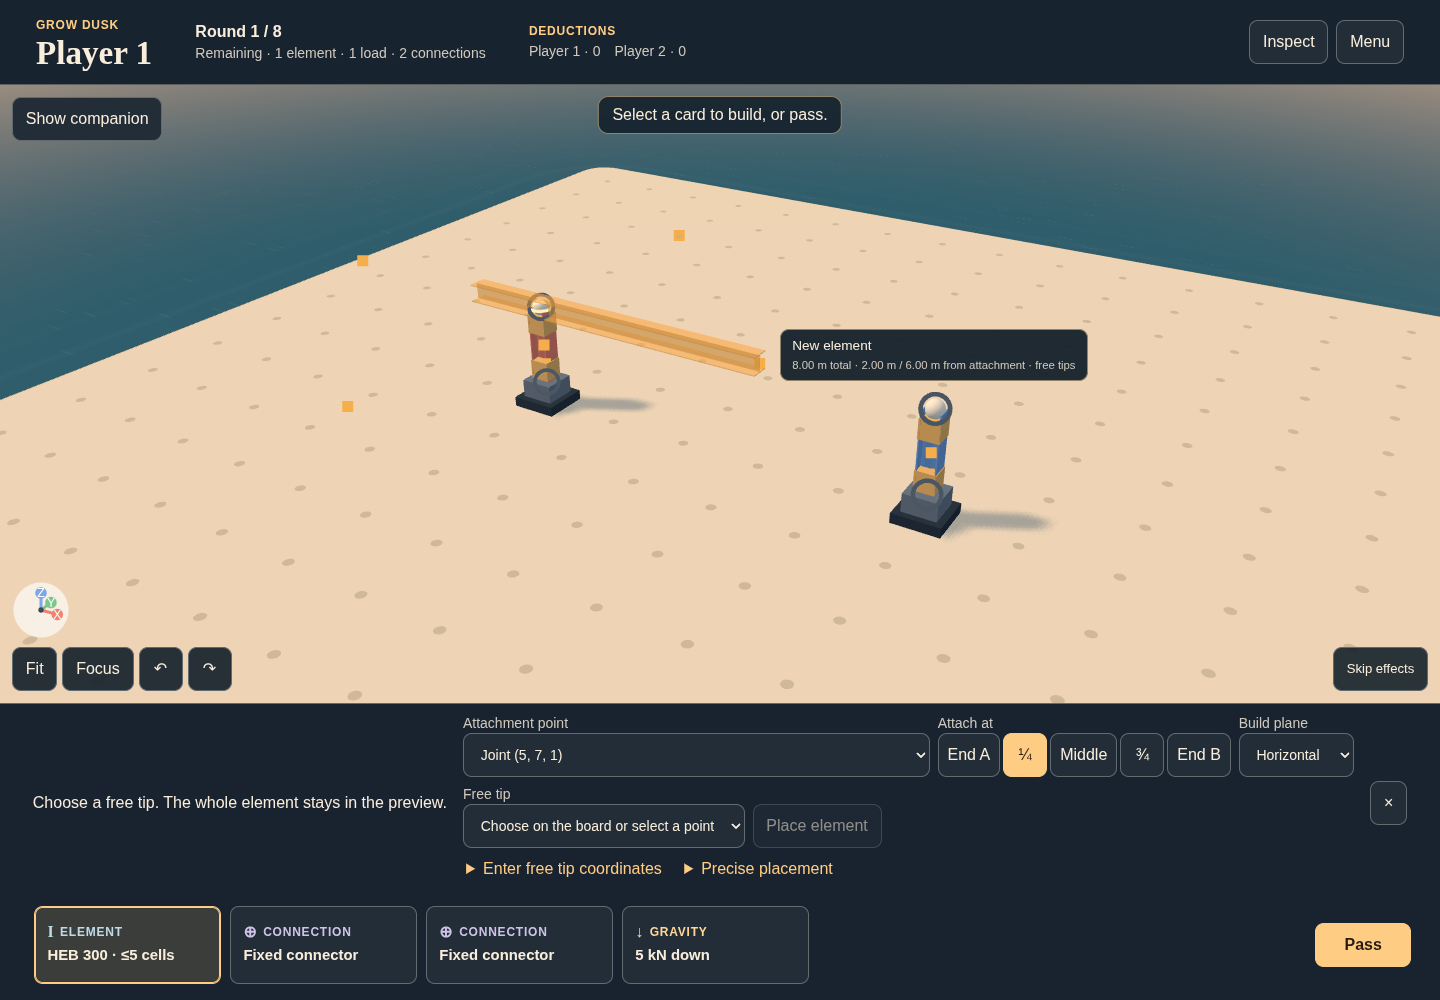
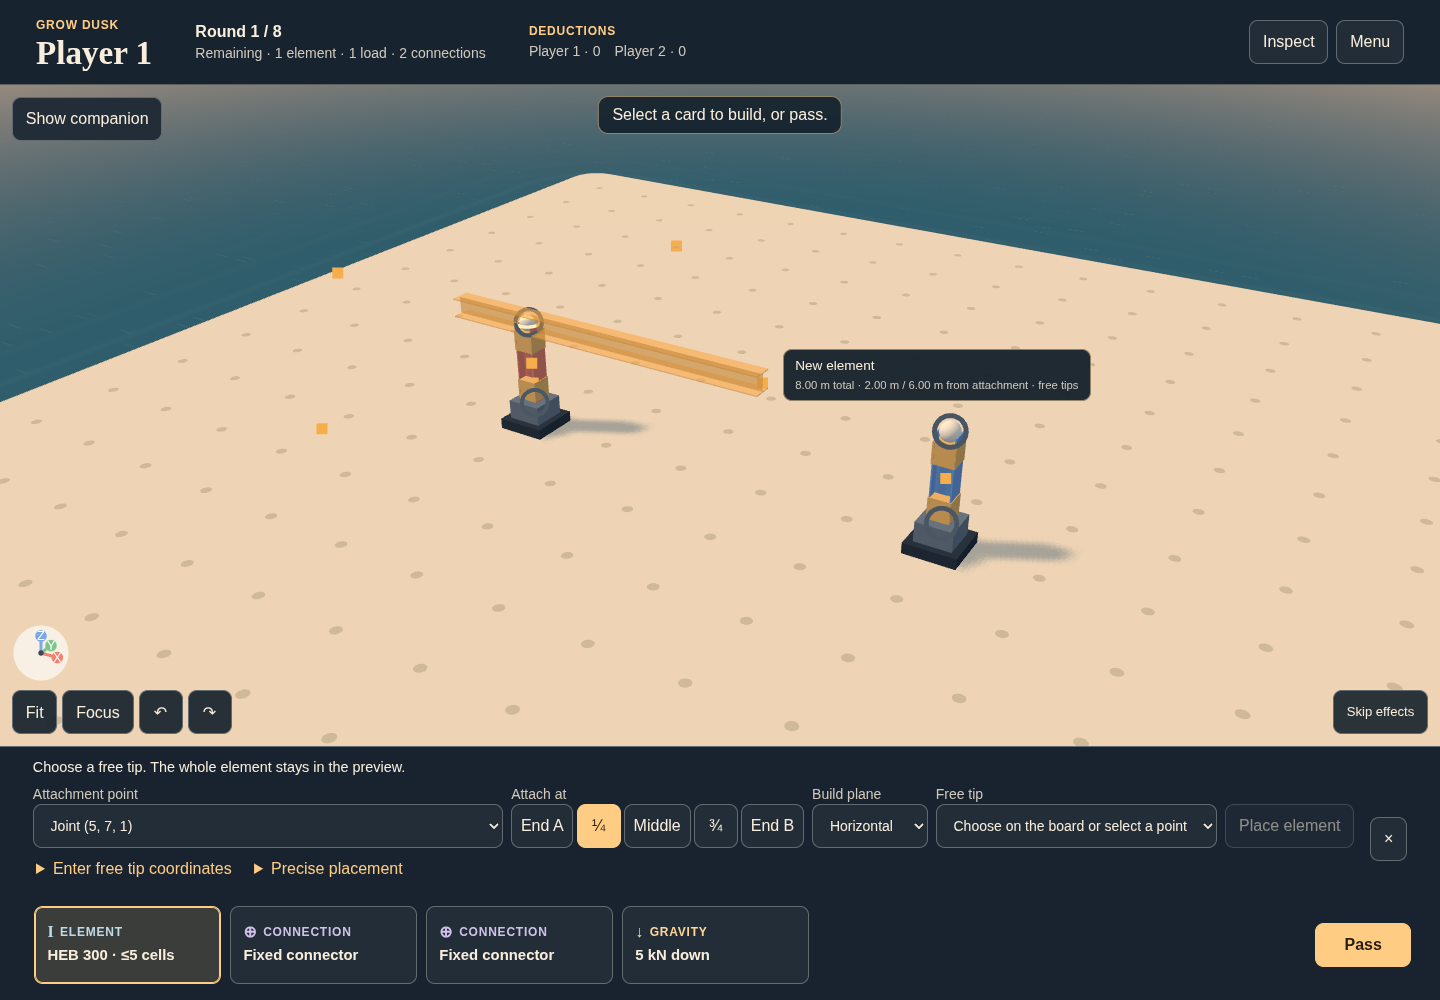
Refresh final cantilever layout and acceptance evidence

diff --git a/docs/kb/cantilever-placement.md b/docs/kb/cantilever-placement.md
@@ -99,7 +99,7 @@ The focused regression suites cover:
 - `cantileverRelease.test.ts`: a genuine dealt v2 quarter-supported 5 kN match through all 16 turns, one card per physical play, unchanged starting fittings, Rust final-score provenance, complete private draft/final replay and v1 private-save preservation.
 - `menu/startPlan.test.ts`: the v2 preset reaches the release board dimensions while Continue retains a historical match.
 
-The [2026-11-15 browser walkthrough](../evidence/cantilevers/README.md) passed **6/6 scenarios** in Chromium 156.0.8078.79 with genuine seed 6: pointer controls, actual scene picking, precise endpoint entry, keyboard input, touch emulation and unavailable-WebGL fallback. Each scenario staged one whole beam and one explicitly chosen `q1` fixed connector, reloaded the exact draft, placed a 5 kN tip load, completed assessment/private handoff, verified the committed geometry and checked horizontal overflow. The full TypeScript suite passed **606 tests, with 9 skipped**. Shared-contract and web production builds passed. The top-level Rust rebuild was unavailable because Cargo was absent; no Rust code changed and validation used the checked-in WASM. See [recorded results and reproduction](../evidence/cantilevers/README.md).
+The [2026-11-15 browser walkthrough](../evidence/cantilevers/README.md) passed **6/6 scenarios** in Chromium 156.0.8078.79 with genuine seed 6: pointer controls, actual scene picking, precise endpoint entry, keyboard input, touch emulation and unavailable-WebGL fallback. Each scenario staged one whole beam and one explicitly chosen `q1` fixed connector, reloaded the exact draft, placed a 5 kN tip load, completed assessment/private handoff, verified the committed geometry and checked horizontal overflow. The final full test suite passed **608 tests, with 9 skipped**. Shared-contract and web production builds passed. The top-level Rust rebuild was unavailable because Cargo was absent; no Rust code changed and validation used the checked-in WASM. See [recorded source revisions, results and reproduction](../evidence/cantilevers/README.md).
 
 These browser results use Linux Chromium and touch emulation. Hardware touch, assistive technology and the broader release matrix remain governed by the [controls criteria](controls-camera-criteria.md) and [release ledger](criteria-ledger.md).
 

diff --git a/docs/evidence/cantilevers/README.md b/docs/evidence/cantilevers/README.md
@@ -1,6 +1,6 @@
 # Fixed interior frame collar evidence
 
-Validated on 2026-11-15 against source commit `b1703d8927d54004b232100af1f3dbdf74dae81f` on `codex/shared-table-cantilevers`.
+Validated on 2026-11-15 on `codex/shared-table-cantilevers`. The final browser rerun began at UI source `f4a4f9b2044cdba97213de2db60467df11c18d58`. During that run, `323e8bed644d3573a6aa08e0513db8ad1cfa8de6` added the final rule guard excluding load-only endpoint identities from authoring targets. The final full test suite and shared-contract/web builds ran after that guard. The browser fixture uses the unchanged ordinary starting-column shared joint; this record does not claim that every browser case ran against a single unchanged source revision.
 
 The [browser runner](../../../scripts/cantilever-browser.mjs) passed all **6 scenarios** in Linux Chromium **156.0.8078.79**, using genuine opening **seed 6** and `grow-dusk-release-2`. The [raw results](results.json) were copied unchanged from the completed run.
 
@@ -31,7 +31,7 @@ Omit `DOF_BROWSER_EXECUTABLE` to use Playwright's installed Chromium. `DOF_EVIDE
 
 ## Additional validation and limits
 
-- `npm test`: **606 passed, 9 skipped**. This includes the source-collar rules, exact placement, asymmetric numerical references, connector resultants, complete match/replay and old-save compatibility suites described in [cantilever placement](../../kb/cantilever-placement.md).
+- `npm test`: **608 passed, 9 skipped**, across 87 test files. This includes the final authoring guard, source-collar rules, exact placement, asymmetric numerical references, connector resultants, complete match/replay and old-save compatibility suites described in [cantilever placement](../../kb/cantilever-placement.md).
 - The shared solver-contract and web production builds passed.
 - The top-level `npm run build` could not rebuild Rust because Cargo was unavailable (`ENOENT`). No Rust sources changed; browser and numerical validation used the checked-in WASM module.
 
